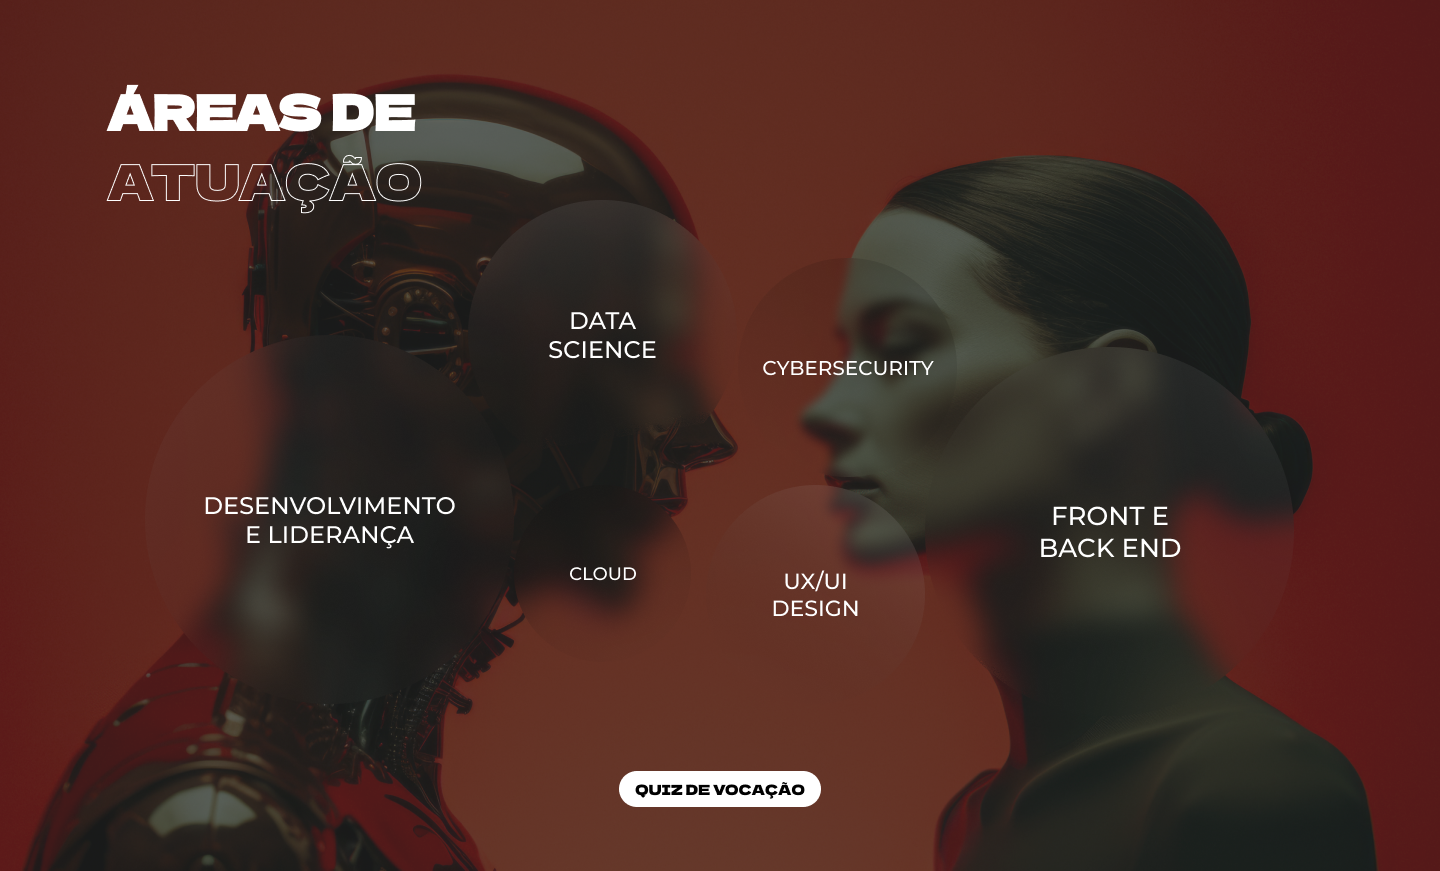
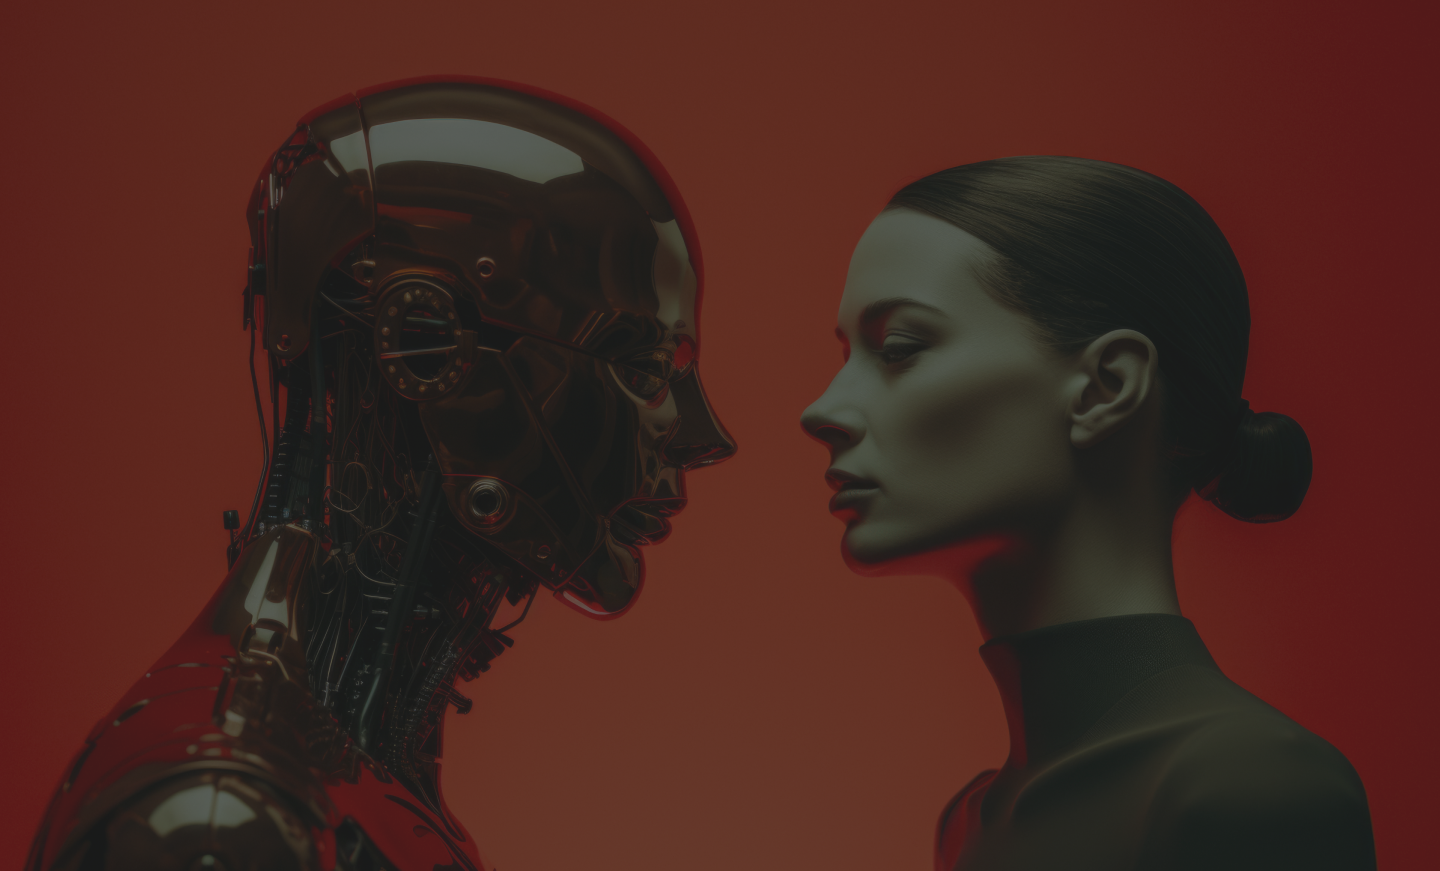
style: Create style for areas de atuação section

diff --git a/assets/styles/areas_atuacao.css b/assets/styles/areas_atuacao.css
@@ -1,0 +1,130 @@
+section.areas_atuacao {
+    display: grid;
+    grid-template-areas:
+    'coluna_1 coluna_2 coluna_3 coluna_4'
+    'botao botao botao botao';
+    align-items: center;
+    font-family: var(--font-family-content);
+    background-image: url('../img/areas-atuacao.png');
+    background-repeat: no-repeat;
+    min-height: 40rem;
+}
+.areas_atuacao .areas_atuacao__titulo h2{
+    font-size: 3rem;
+    font-family: var(--font-family-title);
+    line-height: 4rem;
+    color: var(--neutral-white);
+    text-transform: uppercase;
+    padding-top: 5rem;
+    margin-bottom: 8rem;
+    max-width: 32rem;
+}
+.areas_atuacao h2 span{
+    color: transparent;
+    -webkit-text-stroke-width: 1px;
+    -webkit-text-stroke-color: var(--neutral-white);
+}
+
+.areas_atuacao .coluna_grid {
+    text-align: center;
+}
+.areas_atuacao .coluna_1 .areas, .areas_atuacao .coluna_2 .areas{
+    background: var(--gradient-black-200);
+}
+.areas_atuacao .coluna_3 .areas, .areas_atuacao .coluna_4 .areas{
+    background: var(--gradient-black-20);
+}
+.coluna_1 {
+    grid-area: coluna_1;
+}
+.coluna_2 {
+    grid-area: coluna_2;
+}
+.coluna_3 {
+    grid-area: coluna_3;
+}
+.coluna_4 {
+    grid-area: coluna_4;
+}
+.areas_atuacao .areas{
+    position: relative;
+    border-radius: 50%;
+    backdrop-filter: blur(.5rem);
+    color: var(--neutral-white);
+    margin: 0 auto;
+}
+.areas_atuacao .areas span{
+    position: absolute;
+    top: 50%;
+    left: 50%;
+    translate: -50% -50%;
+    display: block;
+    max-width: 10rem;
+    text-transform: uppercase;
+}
+.extra_grande {
+    aspect-ratio: 1;
+    width: 25vw;
+}
+.grande {
+    aspect-ratio: 1;
+    width: 17vw;
+}
+.medio {
+    aspect-ratio: 1;
+    width: 14vw;
+}
+.pequeno {
+    aspect-ratio: 1;
+    width: 10vw;
+}
+.desenvolvimento_lideranca {
+    left: 2rem;
+    font-size: 1.5rem;
+}
+.areas_atuacao .desenvolvimento_lideranca span{
+    max-width: 20rem;
+}
+.cloud {
+    top: 5rem;
+    right: 5rem;
+    font-size: 1.1rem;
+}
+.data_science{
+    top: 4rem;
+    right: 5rem;
+    font-size: 1.5rem;
+}
+.cybersecurity{
+    top: 6rem;
+    right: 5.5rem;
+    font-size: 1.25rem;
+}
+.areas_atuacao .cybersecurity span{
+    max-width: 15rem;
+}
+.ux_ui {
+    top: 6.5rem;
+    right: 8.5rem;
+    font-size: 1.3rem;
+}
+.front_back {
+    top: 10rem;
+    right: 8.5rem;
+    font-size: 1.6rem;
+}
+.areas_atuacao .quiz{
+    grid-area: botao;
+    text-align: center;
+    padding: 2.5rem;
+}
+.areas_atuacao .botao{
+    text-decoration: none;
+    text-transform: uppercase;
+    font-family: var(--font-family-title);
+    font-size: .9rem;
+    color: var(--neutral-dark);
+    background-color: var(--neutral-white);
+    border-radius: 28px;
+    padding: .5rem 1rem;
+}
